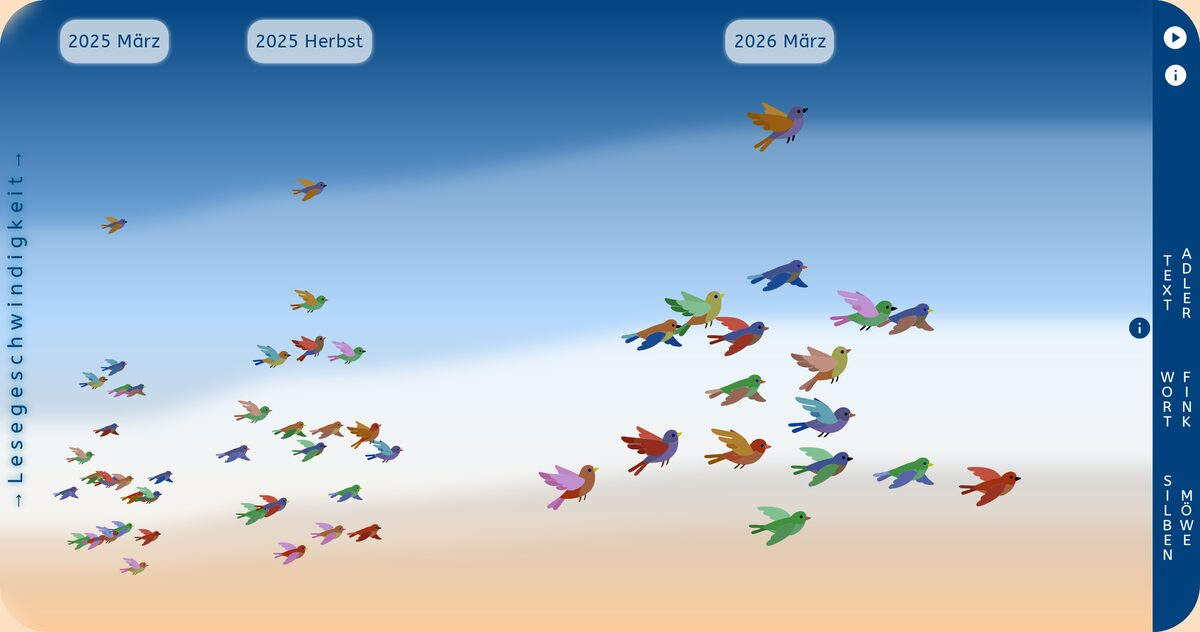
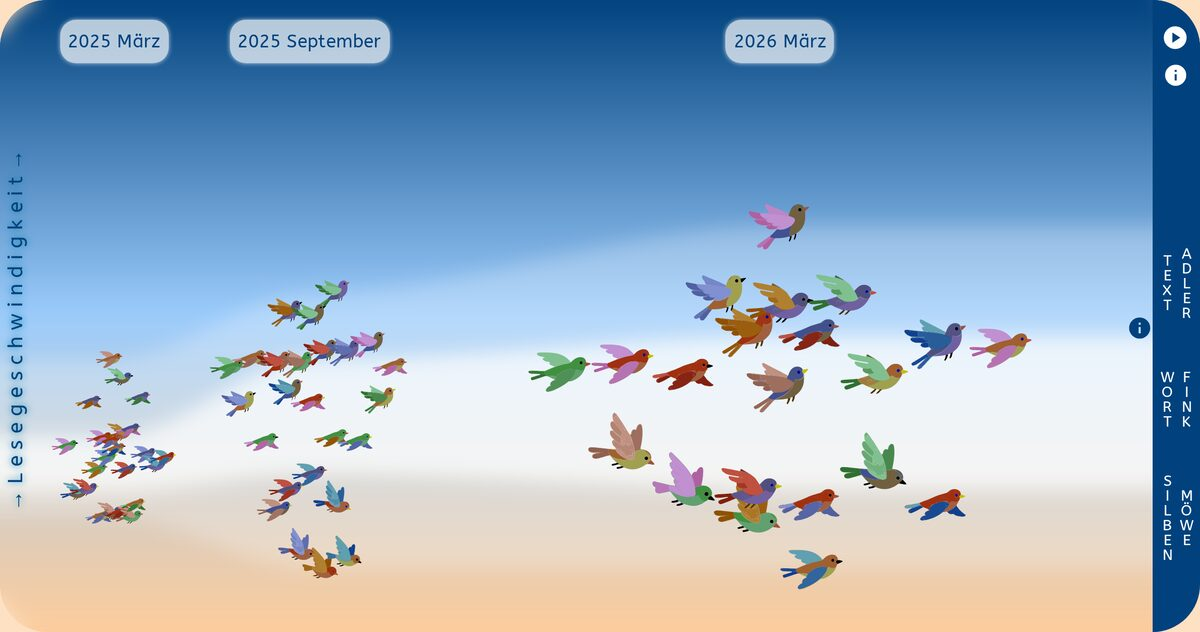
fix(katalog): Messwiederholung nach dem Umzug auf GitHub Pages nachziehen
Folgt auf #60 und #61: Die Adressen waren dort schon umgestellt, Bilder und
Texte stammten aber noch vom alten Server.

- Hinweis „KT-internes Hosting in Bearbeitung“ entfernt
- Originale der sieben Messwiederholungs-Bausteine und das Kartenbild aus
  der neuen Demo neu aufgenommen
- Alt-Texte an die neuen Demodaten angepasst (September statt Herbst,
  Abdul Rahman statt Adrian, zwei Messzeitpunkte in der Schüler:innensicht)
- Bausteine-Dokument neu erzeugt

Changed region(s): [[0.0, 0.1503, 0.9867, 0.932], [0.185, 0.0301, 0.3392, 0.1203]]

diff --git a/apps/shared/originale.js b/apps/shared/originale.js
@@ -4,7 +4,7 @@
 // Konsortiums, aus denen er stammt. Der erste Eintrag ist das Original, die
 // übrigen zeigen dieselbe Komponente bei einer anderen Einrichtung.
 
-export const ORIGINALE_STAND = '2026-10-14';
+export const ORIGINALE_STAND = '2026-11-05';
 
 export const ORIGINALE = {
   "abweichung-je-lerngruppe": [
@@ -330,8 +330,8 @@ export const ORIGINALE = {
       "breite": 1200,
       "hoehe": 632,
       "alt": {
-        "de": "Lehrkraftansicht der Messwiederholung: alle Schüler:innen als Vögel über drei Messzeitpunkte (März 2025, Herbst 2025, März 2026), Kompetenzstufen als Zonen Silben/Möwe, Wort/Fink, Text/Adler",
-        "en": "Teacher view of the repeated measurement: every student as a bird across three measurement points (March 2025, autumn 2025, March 2026), competence levels as zones syllables/gull, word/finch, text/eagle"
+        "de": "Lehrkraftansicht der Messwiederholung: alle Schüler:innen als Vögel über drei Messzeitpunkte (März 2025, September 2025, März 2026), Kompetenzstufen als Zonen Silben/Möwe, Wort/Fink, Text/Adler",
+        "en": "Teacher view of the repeated measurement: every student as a bird across three measurement points (March 2025, September 2025, March 2026), competence levels as zones syllables/gull, word/finch, text/eagle"
       }
     }
   ],
@@ -458,8 +458,8 @@ export const ORIGINALE = {
       "breite": 1200,
       "hoehe": 681,
       "alt": {
-        "de": "Schüler:innensicht derselben Daten: „Adrian – hier ist dein Testergebnis“ mit eigenem Vogel und Flugbahn über drei Messzeitpunkte",
-        "en": "Student view of the same data: “Adrian – here is your test result” with his own bird and flight path across three measurement points"
+        "de": "Schüler:innensicht derselben Daten: „Abdul Rahman – hier ist dein Testergebnis“ mit eigenem Vogel und Flugbahn über zwei Messzeitpunkte",
+        "en": "Student view of the same data: “Abdul Rahman – here is your test result” with their own bird and flight path across two measurement points"
       }
     }
   ],
@@ -573,7 +573,7 @@ export const ORIGINALE = {
       "breite": 1200,
       "hoehe": 632,
       "alt": {
-        "de": "Lernverlauf einer Schülerin über drei Messzeitpunkte als Linie durch die Vogelschar, die übrigen Schüler:innen blass im Hintergrund",
+        "de": "Lernverlauf eines einzelnen Kindes über drei Messzeitpunkte als Linie durch die Vogelschar, die übrigen Schüler:innen blass im Hintergrund",
         "en": "Learning trajectory of one student across three measurement points as a line through the flock, the other students faded in the background"
       }
     },

diff --git a/apps/shared/konsortium.js b/apps/shared/konsortium.js
@@ -135,8 +135,8 @@ export const RUECKMELDUNGEN = [
     code: 'https://github.com/kompetenztestde/report-messwiederholung',
     doku: null,
     hinweis: {
-      de: 'KT-internes Hosting in Bearbeitung. Entstanden in Zusammenarbeit mit TBA II.',
-      en: 'KT-internal hosting in progress. Built in cooperation with TBA II.',
+      de: 'Entstanden in Zusammenarbeit mit TBA II.',
+      en: 'Built in cooperation with TBA II.',
     },
     technik: {
       de: 'Frontend Vue 3 mit der Komponentenbibliothek Quasar, Backend Django. Entwicklung: netzkolchose.de UG (Jena).',

diff --git a/apps/portal/dokumentation/bausteine-der-rueckmeldungen.md b/apps/portal/dokumentation/bausteine-der-rueckmeldungen.md
@@ -48,7 +48,7 @@ Dieses Dokument wird aus `apps/shared/konsortium.js` erzeugt
 
 Was an diesen Verweisen vorläufig ist:
 
-- **Messwiederholung Deutsch, Klasse 3** (kompetenztest.de (FSU Jena)): KT-internes Hosting in Bearbeitung. Entstanden in Zusammenarbeit mit TBA II.
+- **Messwiederholung Deutsch, Klasse 3** (kompetenztest.de (FSU Jena)): Entstanden in Zusammenarbeit mit TBA II.
 - **Kompetenzstand Mathematik: Klassenbericht, Klasse 8** (kompetenztest.de (FSU Jena)): Nach dem Sachbericht veröffentlicht (08.10.2026) und mit der Erhebung vom 14.10.2026 aufgenommen. In der Demo „Demo-Zugang: Ja“ wählen und anmelden.
 - **Klassenrückmeldung** (indibit): Die Komponentenbibliothek ist als tba3-elements veröffentlicht. Lizenz: MIT.
 - **Schulaufsichtsrückmeldung** (indibit): Das Land Hessen setzt für seine Rückmeldungen an die Schulaufsicht auf diesem Entwicklungsstand auf.
@@ -112,7 +112,7 @@ Mehrere Erhebungen als Linie, mit Band und Vergleichslinie. Der einzige Baustein
 
 *Daten:* Mehrere Erhebungen derselben Gruppe · *Bibliothek:* `<tba3-lernstands-verlauf>` · *Genannt von:* kompetenztest.de (FSU Jena), ISQ Berlin, zepf (RPTU)
 
-![Lernverlauf einer Schülerin über drei Messzeitpunkte als Linie durch die Vogelschar, die übrigen Schüler:innen blass im Hintergrund](/beispiele/bilder/originale/verlauf-ueber-messzeitpunkte.jpg "Original: kompetenztest.de (FSU Jena), Messwiederholung Deutsch, Klasse 3")
+![Lernverlauf eines einzelnen Kindes über drei Messzeitpunkte als Linie durch die Vogelschar, die übrigen Schüler:innen blass im Hintergrund](/beispiele/bilder/originale/verlauf-ueber-messzeitpunkte.jpg "Original: kompetenztest.de (FSU Jena), Messwiederholung Deutsch, Klasse 3")
 
 ![Nachbau als <tba3-lernstands-verlauf>](/dokumentation/bilder/baustein-lernstands-verlauf-de.png "Nachbau: <tba3-lernstands-verlauf>, mit Beispieldaten")
 
@@ -238,7 +238,7 @@ Jede Schüler:in als eigene Figur auf einer Fläche aus Messzeitpunkt und Fähig
 
 *Daten:* Mehrere Erhebungen je Schüler:in · *Bibliothek:* `<tba3-lernverlauf-figuren>` · *Gefunden bei:* kompetenztest.de (FSU Jena)
 
-![Lehrkraftansicht der Messwiederholung: alle Schüler:innen als Vögel über drei Messzeitpunkte (März 2025, Herbst 2025, März 2026), Kompetenzstufen als Zonen Silben/Möwe, Wort/Fink, Text/Adler](/beispiele/bilder/originale/lernverlauf-figuren.jpg "Original: kompetenztest.de (FSU Jena), Messwiederholung Deutsch, Klasse 3")
+![Lehrkraftansicht der Messwiederholung: alle Schüler:innen als Vögel über drei Messzeitpunkte (März 2025, September 2025, März 2026), Kompetenzstufen als Zonen Silben/Möwe, Wort/Fink, Text/Adler](/beispiele/bilder/originale/lernverlauf-figuren.jpg "Original: kompetenztest.de (FSU Jena), Messwiederholung Deutsch, Klasse 3")
 
 ![Nachbau als <tba3-lernverlauf-figuren>](/dokumentation/bilder/baustein-lernverlauf-figuren-de.png "Nachbau: <tba3-lernverlauf-figuren>, mit Beispieldaten")
 
@@ -380,7 +380,7 @@ Kaskadierende Sichten auf dieselbe Datenlage: Schulaufsicht sieht den Bezirk, Sc
 
 *Daten:* Ebene und Rechte der angemeldeten Person · *Bibliothek:* noch keiner · *Genannt von:* kompetenztest.de (FSU Jena), ISQ Berlin
 
-![Schüler:innensicht derselben Daten: „Adrian – hier ist dein Testergebnis“ mit eigenem Vogel und Flugbahn über drei Messzeitpunkte](/beispiele/bilder/originale/rollensichten.jpg "Original: kompetenztest.de (FSU Jena), Messwiederholung Deutsch, Klasse 3")
+![Schüler:innensicht derselben Daten: „Abdul Rahman – hier ist dein Testergebnis“ mit eigenem Vogel und Flugbahn über zwei Messzeitpunkte](/beispiele/bilder/originale/rollensichten.jpg "Original: kompetenztest.de (FSU Jena), Messwiederholung Deutsch, Klasse 3")
 
 ### Filterleiste
 

diff --git a/apps/portal/dokumentation/bausteine-der-rueckmeldungen.en.md b/apps/portal/dokumentation/bausteine-der-rueckmeldungen.en.md
@@ -48,7 +48,7 @@ This document is generated from `apps/shared/konsortium.js`
 
 What is provisional about these links:
 
-- **Repeated measurement, German, grade 3** (kompetenztest.de (FSU Jena)): KT-internal hosting in progress. Built in cooperation with TBA II.
+- **Repeated measurement, German, grade 3** (kompetenztest.de (FSU Jena)): Built in cooperation with TBA II.
 - **Competence status, mathematics: class report, grade 8** (kompetenztest.de (FSU Jena)): Published after the progress report (8 Oct 2026) and added with the survey of 14 Oct 2026. In the demo, choose “Demo-Zugang: Ja” and sign in.
 - **Class report** (indibit): The component library is published as tba3-elements. Licence: MIT.
 - **School supervision report** (indibit): The state of Hesse is building its own school supervision reports on this development status.
@@ -238,7 +238,7 @@ Every student as their own figure on a plane of measurement point and ability, t
 
 *Data:* Several measurements per student · *Library:* `<tba3-lernverlauf-figuren>` · *Found at:* kompetenztest.de (FSU Jena)
 
-![Teacher view of the repeated measurement: every student as a bird across three measurement points (March 2025, autumn 2025, March 2026), competence levels as zones syllables/gull, word/finch, text/eagle](/beispiele/bilder/originale/lernverlauf-figuren.jpg "Original: kompetenztest.de (FSU Jena), Repeated measurement, German, grade 3")
+![Teacher view of the repeated measurement: every student as a bird across three measurement points (March 2025, September 2025, March 2026), competence levels as zones syllables/gull, word/finch, text/eagle](/beispiele/bilder/originale/lernverlauf-figuren.jpg "Original: kompetenztest.de (FSU Jena), Repeated measurement, German, grade 3")
 
 ![Rebuilt as <tba3-lernverlauf-figuren>](/dokumentation/bilder/baustein-lernverlauf-figuren-en.png "Rebuild: <tba3-lernverlauf-figuren>, with sample data")
 
@@ -380,7 +380,7 @@ Cascading views of the same data: supervision sees the district, leadership the 
 
 *Data:* The level and permissions of the signed-in person · *Library:* none yet · *Named by:* kompetenztest.de (FSU Jena), ISQ Berlin
 
-![Student view of the same data: “Adrian – here is your test result” with his own bird and flight path across three measurement points](/beispiele/bilder/originale/rollensichten.jpg "Original: kompetenztest.de (FSU Jena), Repeated measurement, German, grade 3")
+![Student view of the same data: “Abdul Rahman – here is your test result” with their own bird and flight path across two measurement points](/beispiele/bilder/originale/rollensichten.jpg "Original: kompetenztest.de (FSU Jena), Repeated measurement, German, grade 3")
 
 ### Filter bar
 
